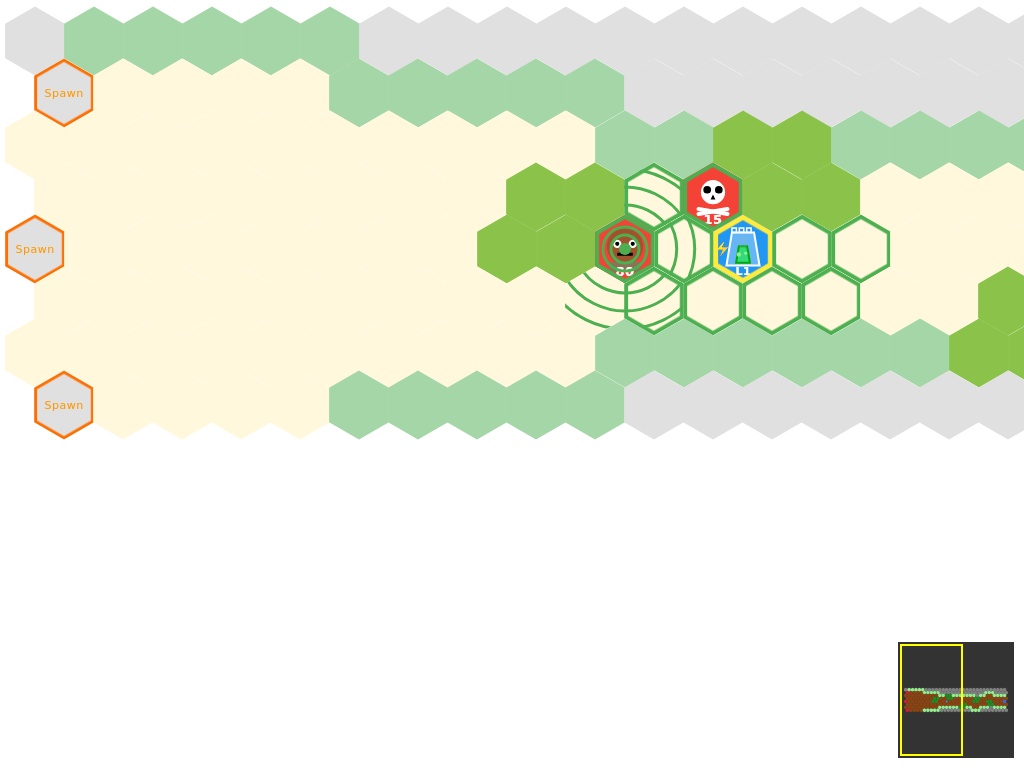
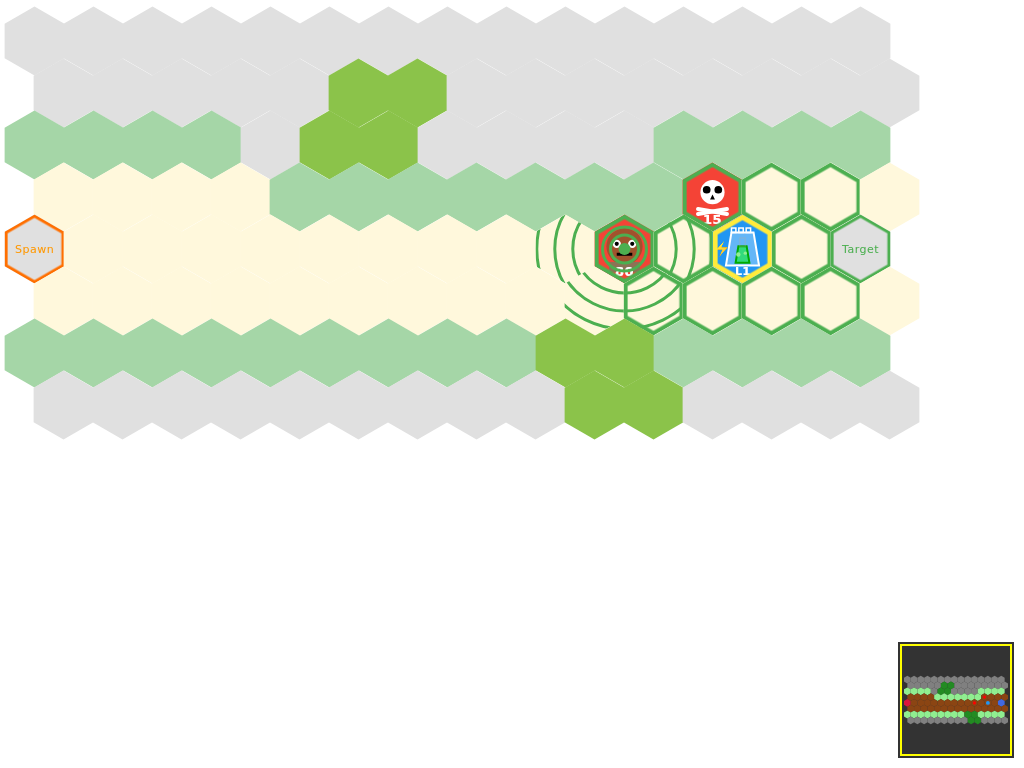
Fix: Do not display target circles when tower has no action points

diff --git a/composeApp/src/commonMain/kotlin/de/egril/defender/ui/gameplay/GameMap.kt b/composeApp/src/commonMain/kotlin/de/egril/defender/ui/gameplay/GameMap.kt
@@ -73,51 +73,59 @@ fun GameGrid(
     }
 
     // Calculate target circle info for each tile
-    val targetCircleMap = remember(selectedTargetPosition, selectedDefenderId, gameState.defenders.size) {
+    // Get actionsRemaining for the selected defender to track changes
+    val selectedDefenderActions = gameState.defenders.find { it.id == selectedDefenderId }?.actionsRemaining?.value
+    
+    val targetCircleMap = remember(selectedTargetPosition, selectedDefenderId, selectedDefenderActions, gameState.defenders.size) {
         if (selectedTargetPosition == null || selectedDefenderId == null) {
             emptyMap()
         } else {
             val selectedDefender = gameState.defenders.find { it.id == selectedDefenderId }
             val attackType = selectedDefender?.type?.attackType
             
-            val markerColor = when (attackType) {
-                AttackType.AREA -> Color(0xFFFF5722)  // Deep orange/red for fireball
-                AttackType.LASTING -> Color(0xFF4CAF50)  // Green for acid
-                AttackType.MELEE, AttackType.RANGED -> Color.DarkGray  // DarkGray for single-target
-                else -> null
-            }
-            
-            if (markerColor == null || attackType == null) {
+            // Don't show target circles if the tower has no action points left
+            if (selectedDefender == null || selectedDefender.actionsRemaining.value <= 0) {
                 emptyMap()
             } else {
-                val result = mutableMapOf<Position, TargetCircleInfo>()
-                
-                // Central target tile
-                result[selectedTargetPosition] = TargetCircleInfo.CentralTarget(
-                    color = markerColor,
-                    attackType = attackType
-                )
-                
-                // For AREA and LASTING attacks, add neighbor tiles that are on the path
-                if (attackType == AttackType.AREA || attackType == AttackType.LASTING) {
-                    val neighbors = selectedTargetPosition.getHexNeighbors()
-                        .filter { neighbor ->
-                        neighbor.x >= 0 && neighbor.x < gameState.level.gridWidth &&
-                        neighbor.y >= 0 && neighbor.y < gameState.level.gridHeight &&
-                        gameState.level.isOnPath(neighbor)
-                    }
-
-                    for (neighbor in neighbors) {
-                        result[neighbor] = TargetCircleInfo.NeighborTarget(
-                            color = markerColor,
-                            attackType = attackType,
-                            centerPosition = selectedTargetPosition,
-                            thisPosition = neighbor
-                        )
-                    }
+                val markerColor = when (attackType) {
+                    AttackType.AREA -> Color(0xFFFF5722)  // Deep orange/red for fireball
+                    AttackType.LASTING -> Color(0xFF4CAF50)  // Green for acid
+                    AttackType.MELEE, AttackType.RANGED -> Color.DarkGray  // DarkGray for single-target
+                    else -> null
                 }
-                println("Target circle map: $result")
-                result
+                
+                if (markerColor == null || attackType == null) {
+                    emptyMap()
+                } else {
+                    val result = mutableMapOf<Position, TargetCircleInfo>()
+                    
+                    // Central target tile
+                    result[selectedTargetPosition] = TargetCircleInfo.CentralTarget(
+                        color = markerColor,
+                        attackType = attackType
+                    )
+                    
+                    // For AREA and LASTING attacks, add neighbor tiles that are on the path
+                    if (attackType == AttackType.AREA || attackType == AttackType.LASTING) {
+                        val neighbors = selectedTargetPosition.getHexNeighbors()
+                            .filter { neighbor ->
+                            neighbor.x >= 0 && neighbor.x < gameState.level.gridWidth &&
+                            neighbor.y >= 0 && neighbor.y < gameState.level.gridHeight &&
+                            gameState.level.isOnPath(neighbor)
+                        }
+
+                        for (neighbor in neighbors) {
+                            result[neighbor] = TargetCircleInfo.NeighborTarget(
+                                color = markerColor,
+                                attackType = attackType,
+                                centerPosition = selectedTargetPosition,
+                                thisPosition = neighbor
+                            )
+                        }
+                    }
+                    println("Target circle map: $result")
+                    result
+                }
             }
         }
     }

diff --git a/composeApp/src/desktopTest/kotlin/de/egril/defender/ui/TargetRingsOverlayTest.kt b/composeApp/src/desktopTest/kotlin/de/egril/defender/ui/TargetRingsOverlayTest.kt
@@ -237,4 +237,68 @@ class TargetRingsOverlayTest {
             height = 900
         )
     }
+    
+    @Test
+    fun testNoTargetCirclesWhenNoActionsRemaining() {
+        // Verify that target circles are NOT shown when tower has no action points left
+        val level = LevelData.createLevels().first { it.id == 1 }
+        val gameState = GameState(level)
+        
+        // Set game to player turn phase
+        gameState.phase.value = GamePhase.PLAYER_TURN
+        gameState.turnNumber.value = 2
+        
+        // Add a Wizard Tower (AREA attack - fireball) with NO actions remaining
+        val wizardTower = Defender(
+            id = 1,
+            type = DefenderType.WIZARD_TOWER,
+            position = Position(10, 3),
+            level = androidx.compose.runtime.mutableStateOf(1),
+            buildTimeRemaining = androidx.compose.runtime.mutableStateOf(0),
+            actionsRemaining = androidx.compose.runtime.mutableStateOf(0),  // NO actions left
+            placedOnTurn = 1
+        )
+        gameState.defenders.add(wizardTower)
+        
+        // Add an enemy within range
+        val enemy1 = Attacker(
+            id = 1,
+            type = AttackerType.GOBLIN,
+            position = androidx.compose.runtime.mutableStateOf(Position(7, 4)),
+            level = androidx.compose.runtime.mutableStateOf(1)
+        )
+        
+        gameState.attackers.add(enemy1)
+        
+        // State to track selected tower and target position
+        val selectedDefenderId = androidx.compose.runtime.mutableStateOf<Int?>(1)
+        val selectedTargetId = androidx.compose.runtime.mutableStateOf<Int?>(1)
+        val selectedTargetPosition = androidx.compose.runtime.mutableStateOf<Position?>(Position(7, 4))
+        
+        composeTestRule.setContent {
+            GameGrid(
+                gameState = gameState,
+                selectedDefenderType = null,
+                selectedDefenderId = selectedDefenderId.value,
+                selectedTargetId = selectedTargetId.value,
+                selectedTargetPosition = selectedTargetPosition.value,
+                selectedMineAction = null,
+                onCellClick = { }
+            )
+        }
+        
+        composeTestRule.waitForIdle()
+        
+        // Verify the grid renders
+        composeTestRule.onRoot().assertExists()
+        
+        // Capture screenshot showing NO target circles when tower has no actions
+        // This should show selected tower and target enemy, but NO target circles
+        ScreenshotTestUtils.captureScreenshot(
+            composeTestRule,
+            "target-rings-no-circles-when-no-actions",
+            width = 1400,
+            height = 900
+        )
+    }
 }
